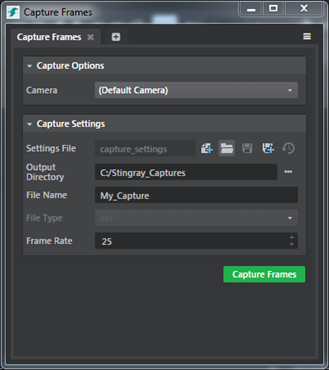
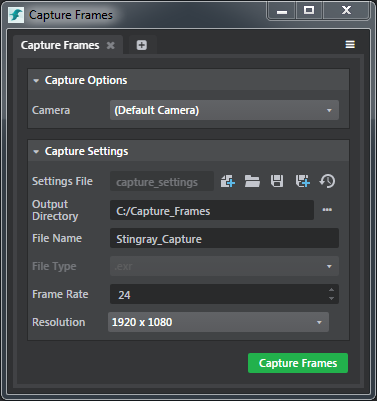
Final fixes for 1.7.

diff --git a/source/stingray_help/release_notes/readme_1.7.md b/source/stingray_help/release_notes/readme_1.7.md
@@ -53,7 +53,7 @@ See the new **Online Assets** folder in the ~{ Asset Browser }~. You can browse,
 <a name="capture-frames"></a>
 ![](../images/capture_frames_rn.png)
 
-The **Capture Frames** Tool is now a standalone tool connected to the **Story Editor**. Simply create a story and click ![Capture Frames](../images/icon_capture_frame.png) to adjust your **Caputre Settings**. New settings include support for different cameras and resolutions, and options to save and reuse your settings. Capturing can also be initiated through new Capture Flow Nodes. For details, see ~{ Capture Frames Tool }~.
+The **Capture Frames** Tool is now a standalone tool connected to the **Story Editor**. Simply create a story and click ![Capture Frames](../images/icon_capture_frame.png) to adjust your **Capture Settings**. New settings include support for different cameras and resolutions, and options to save and reuse your settings. Capturing can also be initiated through new Capture Flow Nodes. For details, see ~{ Capture Frames Tool }~.
 
 ## Better texture import with automatic compression
 
@@ -165,6 +165,8 @@ Stingray now supports high definition range EXR files for image based lighting. 
 The PhysX plug-in installers for Maya 2017 and Maya LT 2017 that ship with Stingray are now updated to install the latest version of the PhysX plug-in, version 3.3.21117.04582. For related information, see ~{ Install the PhysX plug-in for your DCC tool }~.
 
 ## What's new in Rendering
+
+![](../images/rendering_rn.png)
 
 ### Light baking improvements
 

diff --git a/source/stingray_help/lighting_rendering/shading_and_materials/create_tess_material.md b/source/stingray_help/lighting_rendering/shading_and_materials/create_tess_material.md
@@ -2,7 +2,7 @@
 
 [![NEW](../../images/new.png "What else is new in v1.7?")](../../release_notes/readme_1.7.html)
 
-Tessellation adds more traingles to your mesh, giving the illusion of depth and detail on its surface. Adding tessellation to your material can create a more realistic effect on your mesh.
+Tessellation adds more triangles to your mesh. Adding tessellation to your material can create a more realistic effect on your mesh.
 
 1. Do the following to create a new empty material for customization:
     - In the **Asset Browser**, navigate to the folder where you want to create the material.
@@ -16,7 +16,7 @@ Tessellation adds more traingles to your mesh, giving the illusion of depth and 
 	 ![](../../images/enable_hard_tess.png)
 
 4. In the **Shader Graph Editor**, plug in values to the tessellation specific inputs. See ~{ Create or edit shader graphs }~.
-    
-	>**Tip:** You must use the **Domain Sample Texture** sampler node insead of the **Sample Texture** sampler node to drive the tessellation inputs. For more information on these nodes, see the **Sampling** category in the [Stingray Shader Node Reference](../../shaders_ref/index.html).
+
+	>**Tip:** You must use the **Domain Sample Texture** sampler node instead of the **Sample Texture** sampler node to drive the tessellation inputs. For more information on these nodes, see the **Sampling** category in the [Stingray Shader Node Reference](../../shaders_ref/index.html).
 
 5. Assign the material to a mesh with some amount of existing tessellation.

diff --git a/source/stingray_help/lighting_rendering/capture_frames_tool.md b/source/stingray_help/lighting_rendering/capture_frames_tool.md
@@ -12,10 +12,6 @@ The following **Capture Settings** can be adjusted to control your output. See ~
 
 <dl>
 
-<dt>Capture Source</dt>
-<dd>Lets you select the source to capture: your test engine or one of the editor viewports.</dd>
-</dl>
-
 ## Capture Options
 <dl>
 
